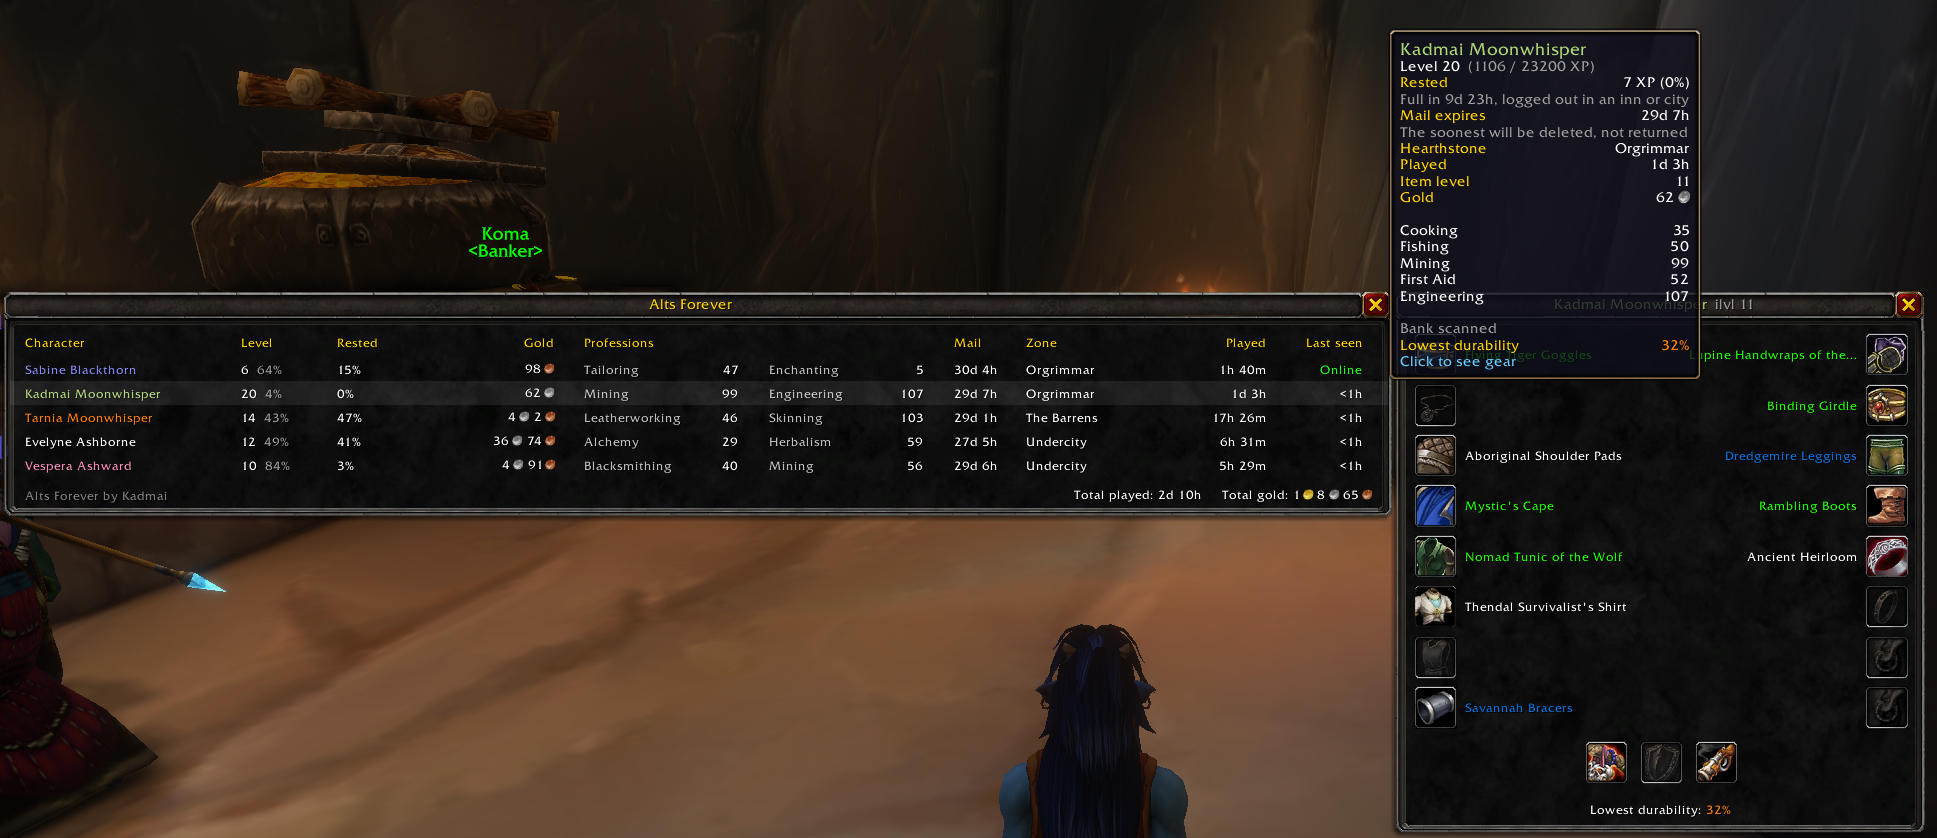
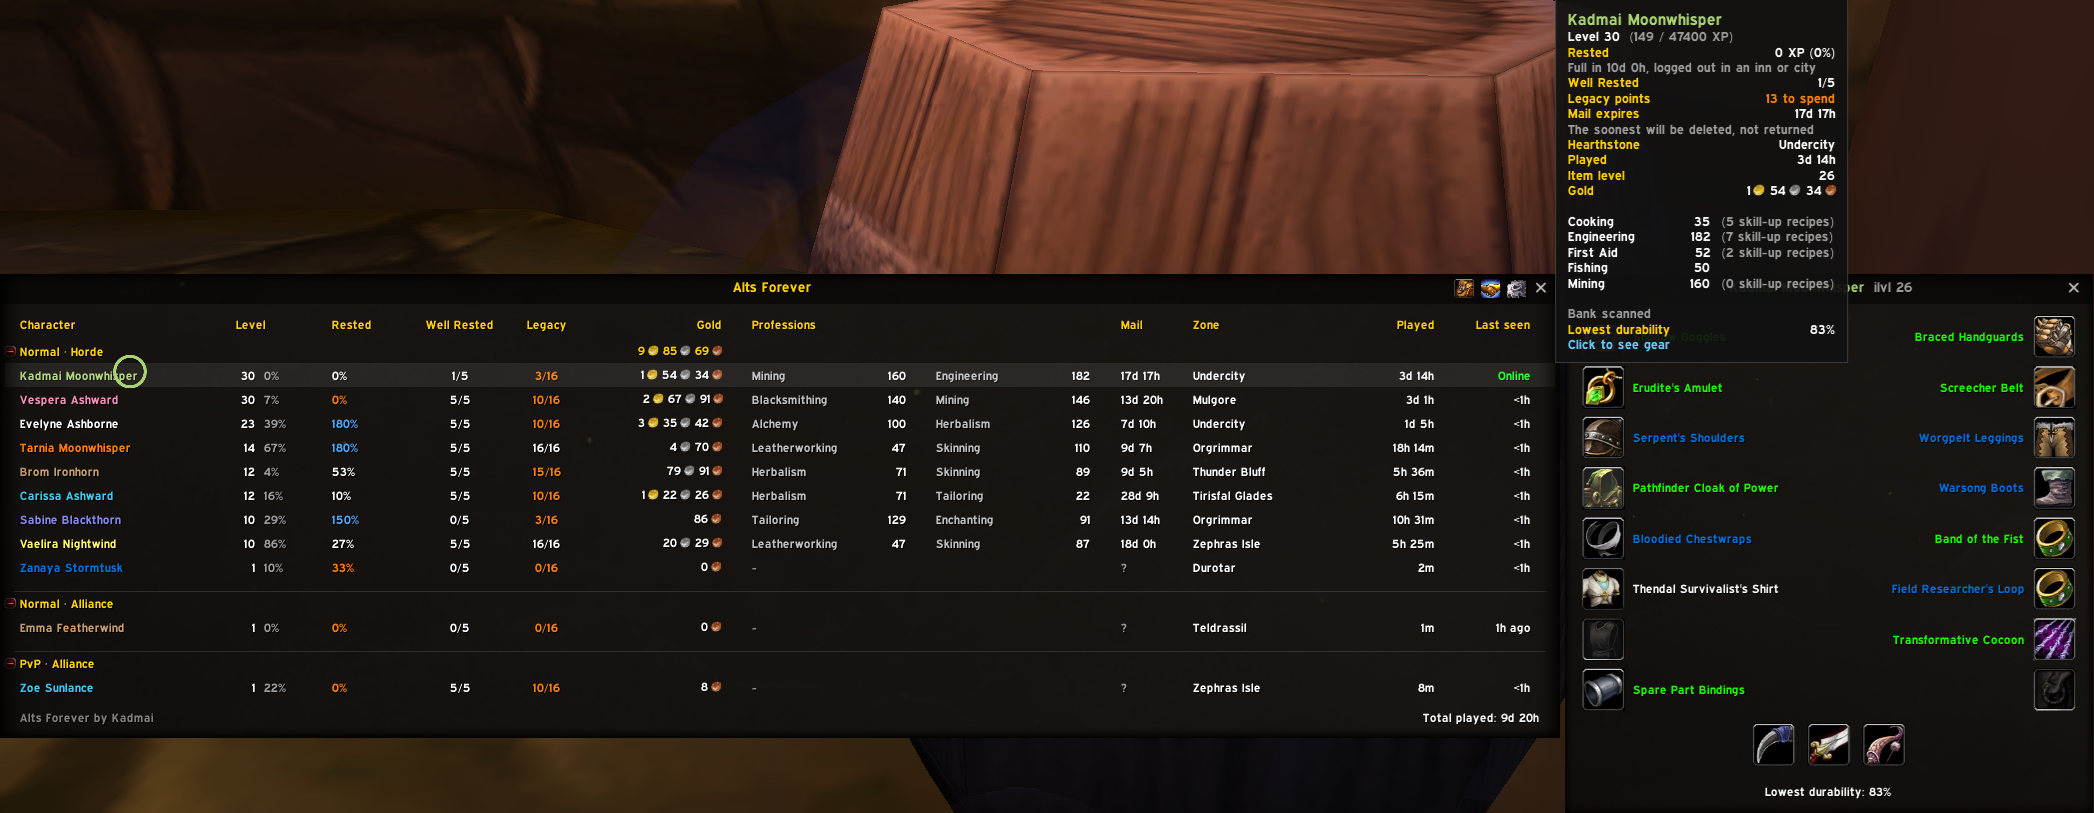
README: new overview screenshot with groups, Waylaid Crate screenshot

diff --git a/README.md b/README.md
@@ -14,9 +14,9 @@ The current character always comes first. Other characters are sorted by count.
 
 Hovering the money at the bottom of your bags lists each character's gold and the total, laid out the same way (also in ElvUI's bags, and in EllesmereUI's when its own gold tracking is turned off). Hovering the **experience bar** lists your other characters still levelling, with their level, XP and rested XP, and hovering the **reputation bar** lists their standing with the faction you're watching.
 
-Type `/af` to open the **overview**: every character with level and XP, rested XP (including what they've built up since logging out), Legacy points left to spend and their Well Rested rank, gold, main professions, zone, time played and when you last played them, with total gold and total time played at the bottom. Hover a row for details such as rested XP until full, hearthstone location and item level. **Click a row** to see that character's gear, laid out like the character panel: hover any item for its tooltip, shift-click to link it in chat. Nearly broken items are tinted red and the lowest durability is shown.
+Type `/af` to open the **overview**: every character with level and XP, rested XP (including what they've built up since logging out), Legacy points left to spend and their Well Rested rank, gold, main professions, zone, time played and when you last played them, with total time played at the bottom. With characters on more than one ruleset or both factions, they're grouped under headings such as "Normal · Horde", each with its gold total; click a heading to collapse it. Hover a row for details such as rested XP until full, hearthstone location and item level. **Click a row** to see that character's gear, laid out like the character panel: hover any item for its tooltip, shift-click to link it in chat. Nearly broken items are tinted red and the lowest durability is shown.
 
-![The overview window with a character's details and gear panel](media/alt-overview.png)
+![The overview window, grouped by ruleset and faction, with a character's details and gear panel](media/alt-overview.png)
 
 **Bags and bank:** your own bags and bank (an entry in the bag's portrait menu, or a small Alts Forever button in the header of Blizzard's bank and of ElvUI's and EllesmereUI's bags and bank), the bag button in the overview's title bar (or `/af bags`, `/af bank`, or right-click a character) opens a window showing any character's bags or bank slot by slot, as you last saw them: each stack with its count, empty slots, how many slots are free, and a coloured border for uncommon and better items. Everything shows in one grid, or tick **By bag** for a section per bag or bank tab, e.g. "Red Linen Bag (7 / 8)". The character's gold is at the bottom. Drag the bottom-right corner to resize: the width sets the slots per row (10 to 30), the height how tall it gets before scrolling, and both are remembered. Pick the character from the dropdown and switch between Bags and Bank. Hover an item for its tooltip, shift-click to link it. A character's slots are recorded the next time you log in on them (bags) or visit their bank; until then the window shows one slot per item with its total.
 
@@ -44,9 +44,11 @@ Hovering a recipe (pattern, schematic, formula...) lists your characters who hav
 
 **Skill-ups across your alts:** "Can craft" marks characters who'd still get a skill-up from making the item ("Tarnia Moonwhisper · skill-ups to 115"), and hovering a material lists the recipes your characters can still skill up with it, under "Skill-ups" ("Heavy Linen Bandage   Tarnia · to 115"): you first, then your other characters, 2 recipes each with the most skill-ups left, up to 6 lines. The overview's row tooltip counts each profession's recipes that still give skill-ups, or says "train to skill up" for a character at their rank's maximum (e.g. 75/75), who is left out of the skill-up lines until they train. It all comes from the game when a profession window is opened; `/af skillups` turns it off.
 
+![Recipe tooltips showing Known, Can learn and Needs skill, and a Can craft line](media/professions.png)
+
 **Waylaid Crates:** hovering a crate adds a grid of the materials it takes: a column per material (its icon, in the crate's order), how many are needed, a row for each of your characters who has any (you first, then whoever has most; up to 10) and the total. A character's count is green when they have enough to fill it alone, and the total is green when your characters have enough between them.
 
-![Recipe tooltips showing Known, Can learn and Needs skill, and a Can craft line](media/professions.png)
+<img src="media/waylaid.png" alt="A Waylaid Crate tooltip with a grid of its materials: what's needed, each character's count and the totals" width="390">
 
 ## Playing with a controller
 
